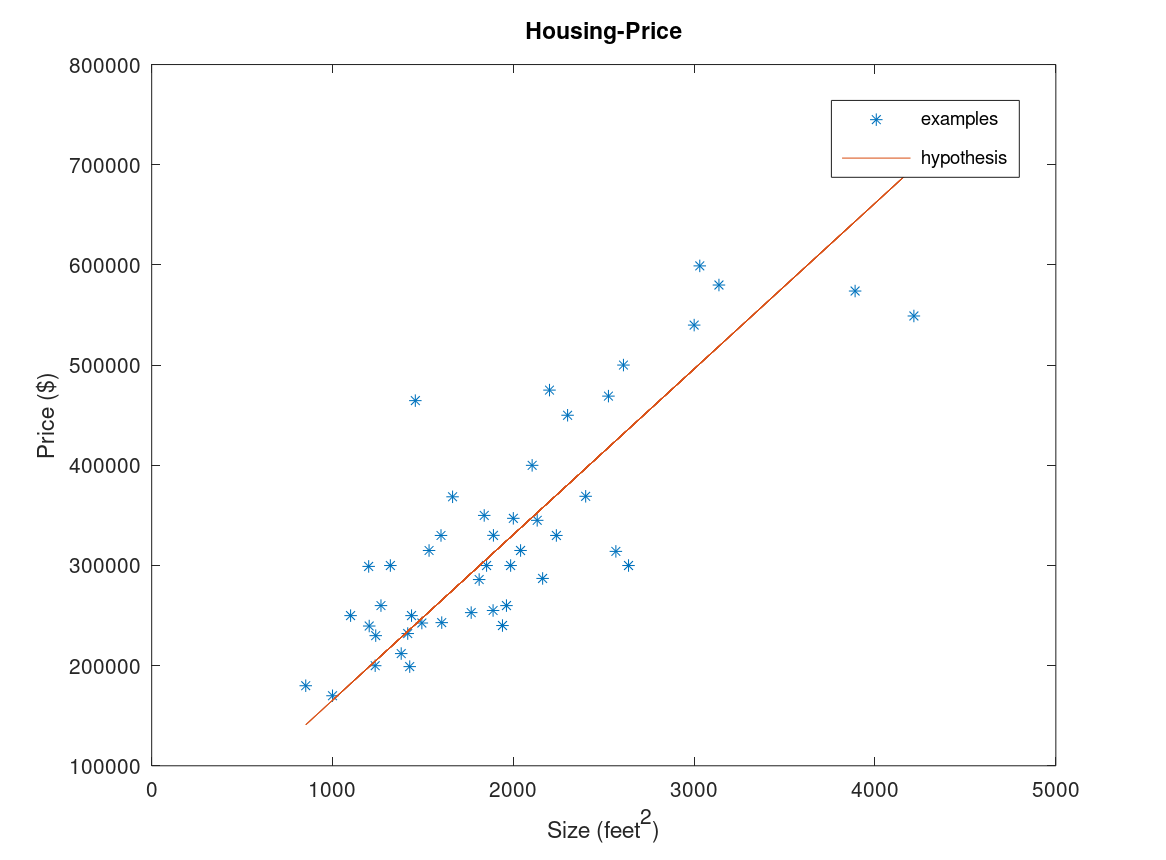
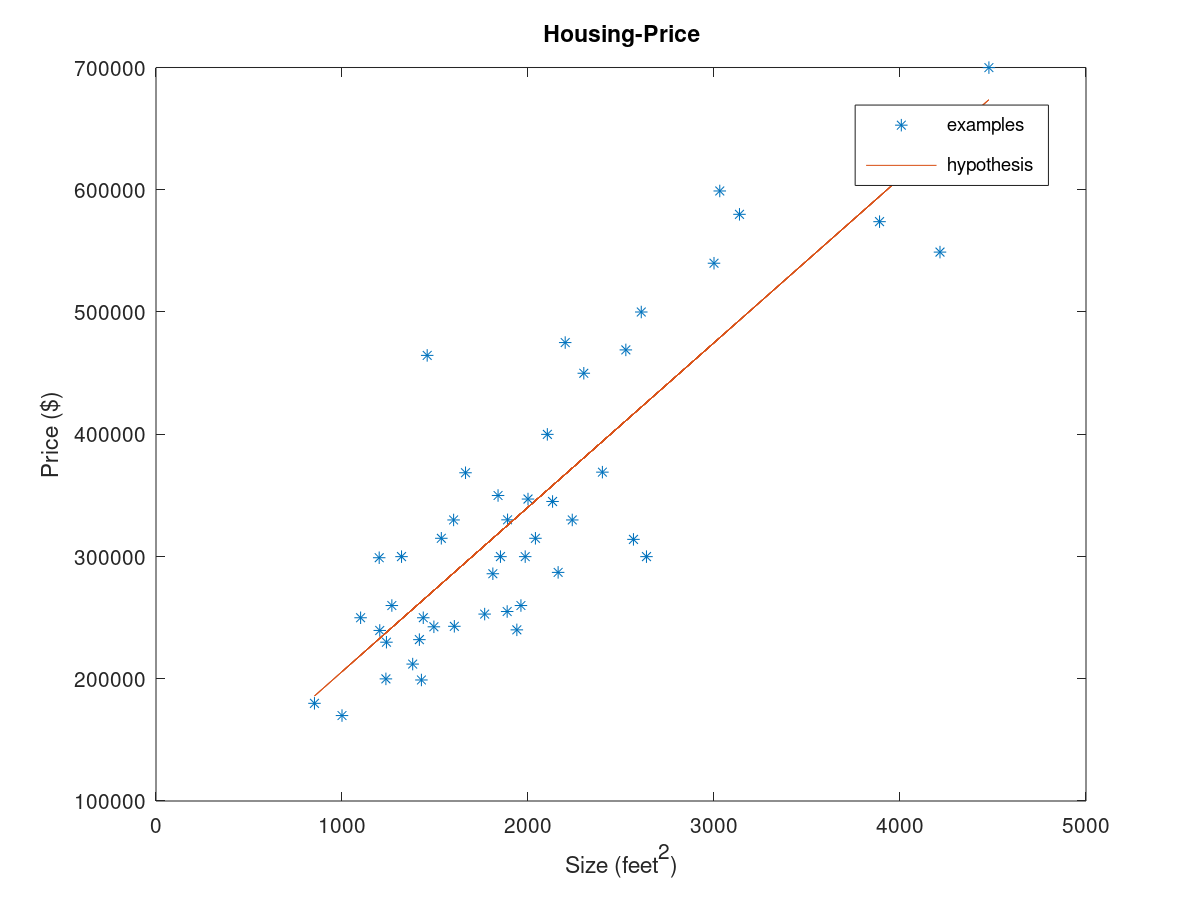
edit housingPrice.m source code

diff --git a/Machine-Learning/Housing-Price/housingPrice.m b/Machine-Learning/Housing-Price/housingPrice.m
@@ -2,16 +2,19 @@ load featuresX.dat
 load priceY.dat
 
 x = featuresX(:, 1);
+x0 = ones(size(x)(:,1),1);
+x = [[x0] x];
 y = priceY;
 
 theta = pinv(x'*x)*(x'*y);
-h = theta*x;
+h = theta(2)*x(:,2) + theta(1);
 
-plot(x, y, "*");
+plot(x(:,2), y, "*");
 hold on;
-plot(x, h);
+plot(x(:,2), h);
 xlabel("Size (feet^2)");
 ylabel("Price ($)");
 legend("examples", "hypothesis");
 title("Housing-Price");
+
 print -dpng "Housing-Price.png";
